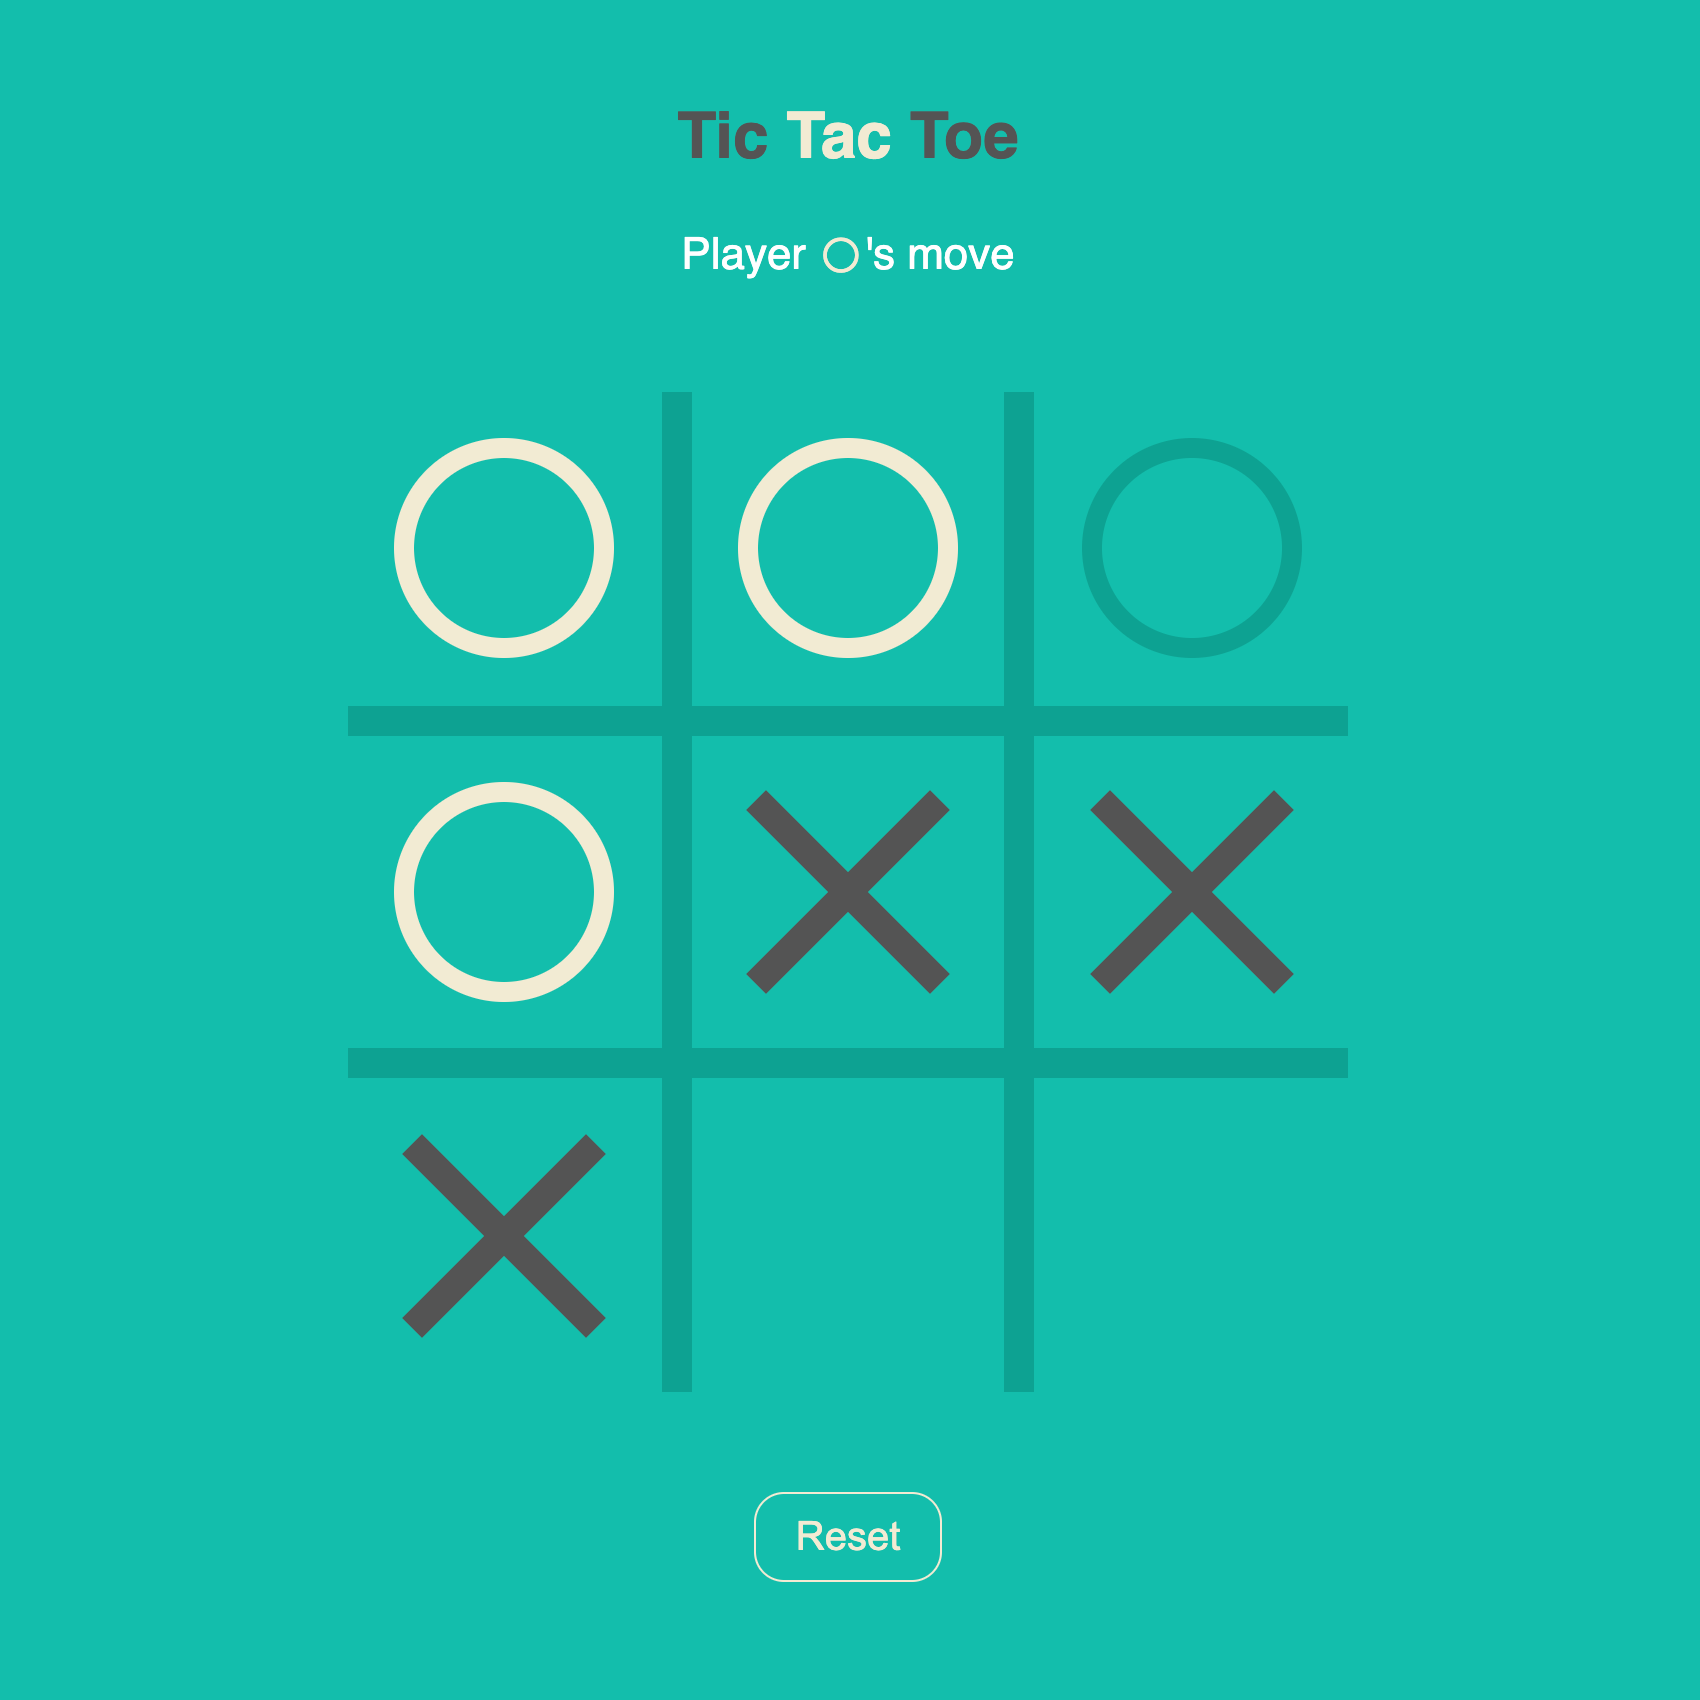
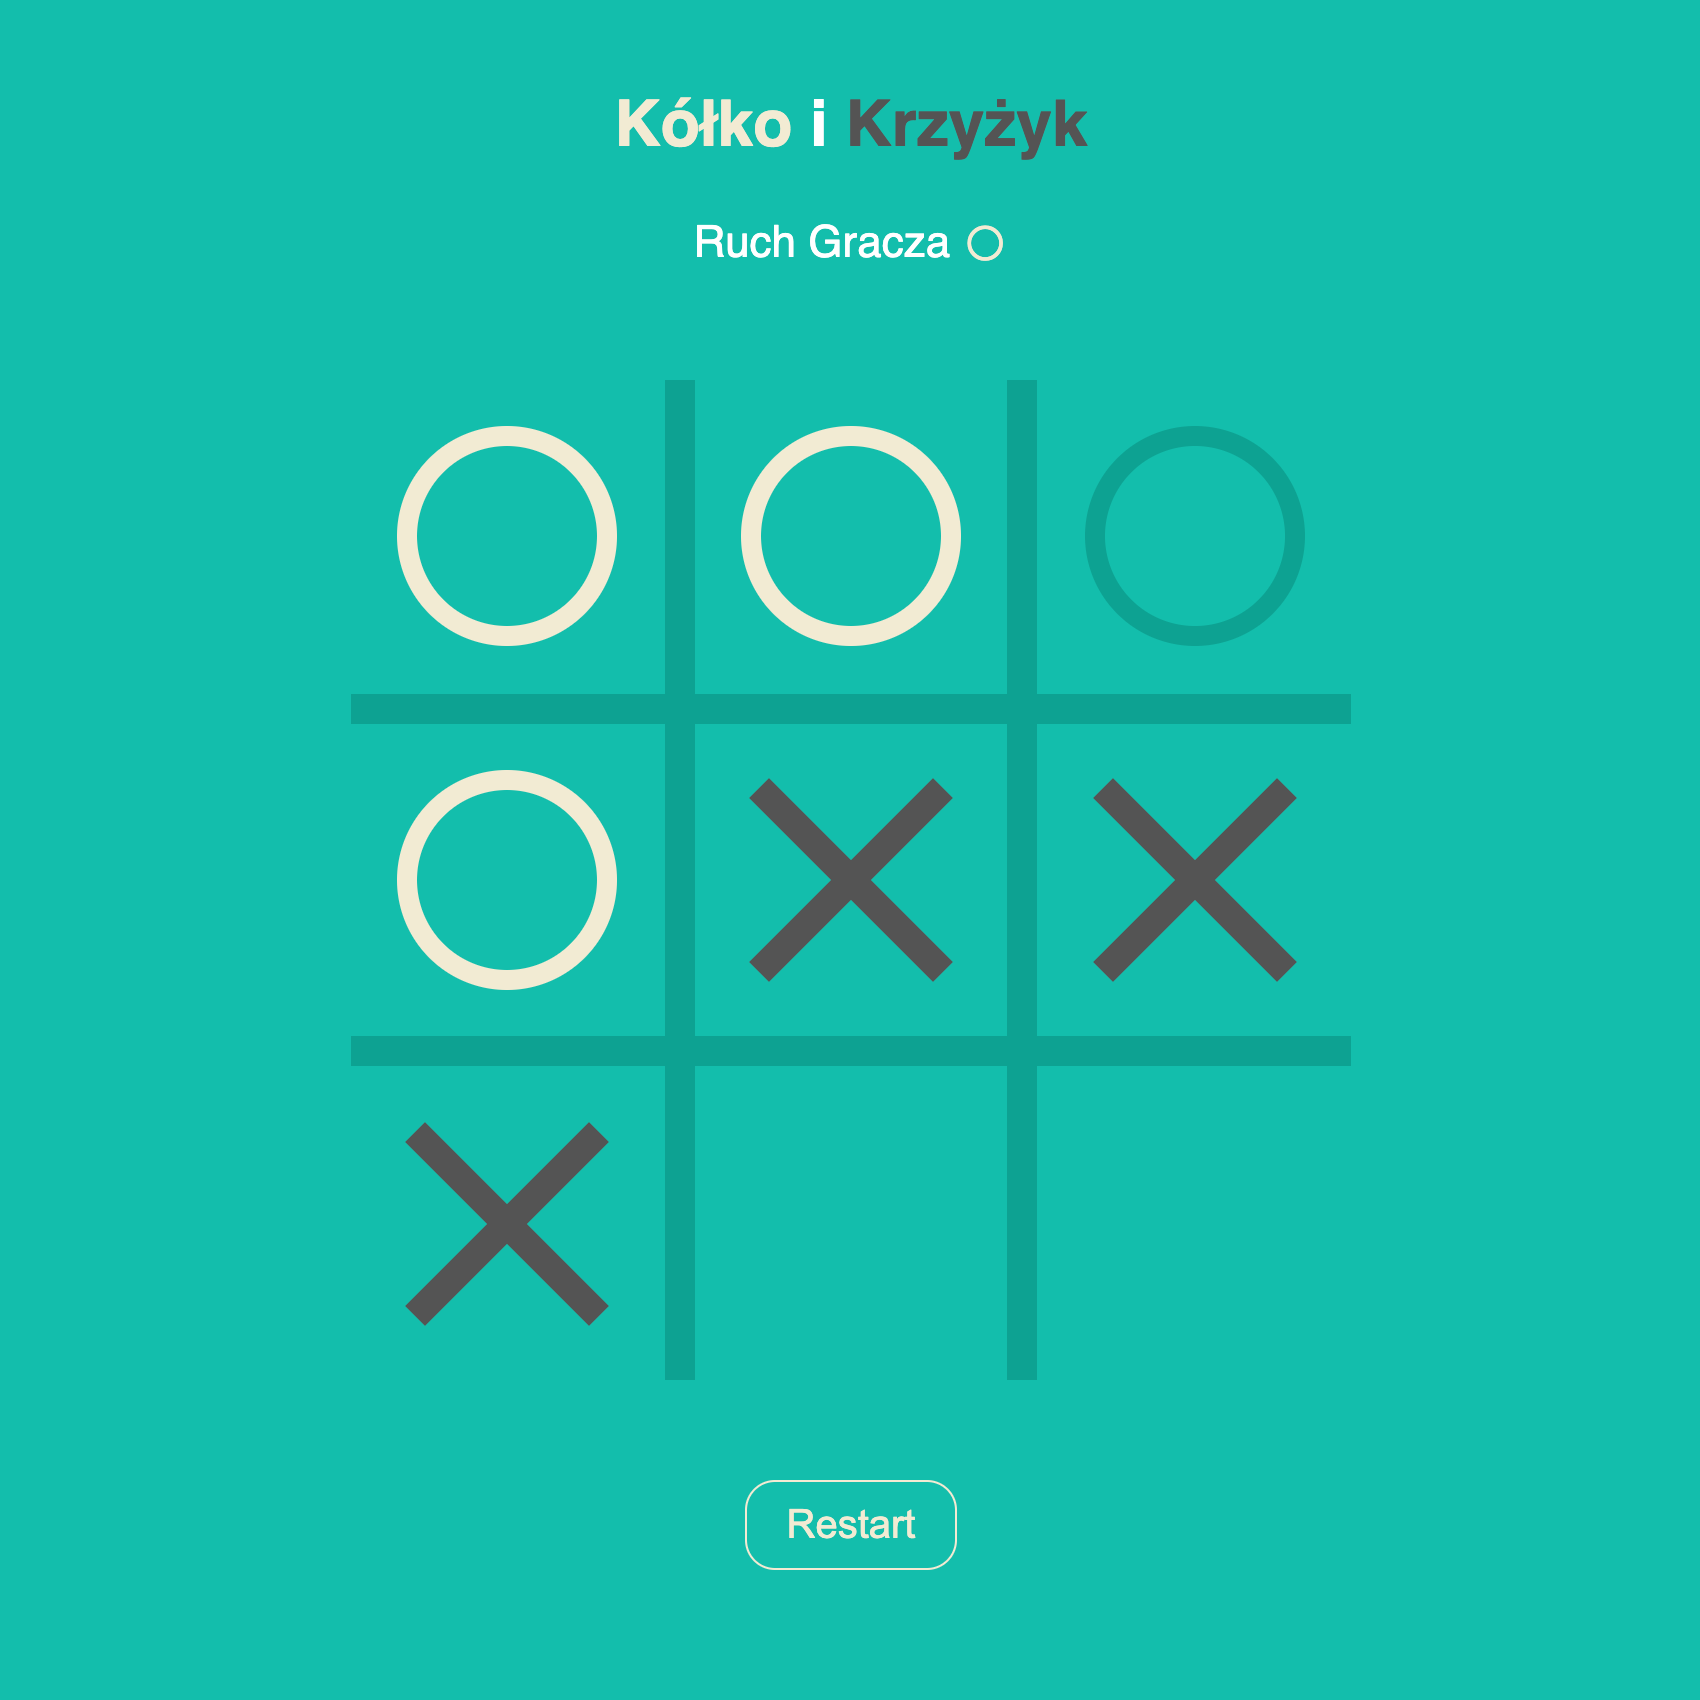
Change interface language

diff --git a/app.js b/app.js
@@ -109,7 +109,7 @@ function setBoardClass() {
 
 function setPlayerInfo(player) {
     const playerClass = player == X_SYMBOL ? PLAYER_X_CLASS : PLAYER_O_CLASS;
-    let playerInfoMsg = `Player <span class="info-display__current-player ${playerClass}"></span>'s move`
+    let playerInfoMsg = `Ruch Gracza <span class="info-display__current-player ${playerClass}"></span>`
     infoDisplayMsgElem.innerHTML = playerInfoMsg;
 }
 
@@ -166,11 +166,11 @@ function endGame(result) {
         });
         // Set result message
         const playerClass = currentPlayer == X_SYMBOL ? PLAYER_X_CLASS : PLAYER_O_CLASS;
-        const resultMsg = `Player <span class="info-display__current-player ${playerClass}"></span> is the winner!`
+        const resultMsg = `Zwyciężył Gracz <span class="info-display__current-player ${playerClass}"></span>!`
         infoDisplayMsgElem.innerHTML = resultMsg;
     } else {
         // Set result message
-        const resultMsg = `Tie!`
+        const resultMsg = `Remis!`
         infoDisplayMsgElem.innerHTML = resultMsg;
     }
 

diff --git a/index.html b/index.html
@@ -10,7 +10,7 @@
 <body>
     <main class="container">
         <section class="header">
-            <h1 class="header__title">Tic <span>Tac</span> Toe</h1>
+            <h1 class="header__title"><span>Kółko</span> i <span>Krzyżyk</span></h1>
         </section>
         <section class="info-display">
             <p class="info-display__msg"></p>
@@ -27,7 +27,7 @@
             <div class="cell" data-cell-row="2" data-cell-column="2"></div>
         </section>
         <section class="controls">
-            <button id="reset-btn" class="controls__btn btn">Reset</button>
+            <button id="reset-btn" class="controls__btn btn">Restart</button>
         </section>
     </main>
 </body>

diff --git a/styles.css b/styles.css
@@ -26,11 +26,15 @@ body {
 
 .header__title {
     font-size: 32px;
-    color: #545454;
+    color: #ffffff;
     text-align: center;
 }
 
 .header__title > span {
+    color: #545454;
+}
+
+.header__title > span:first-of-type {
     color: #F2EBD3;
 }
 
